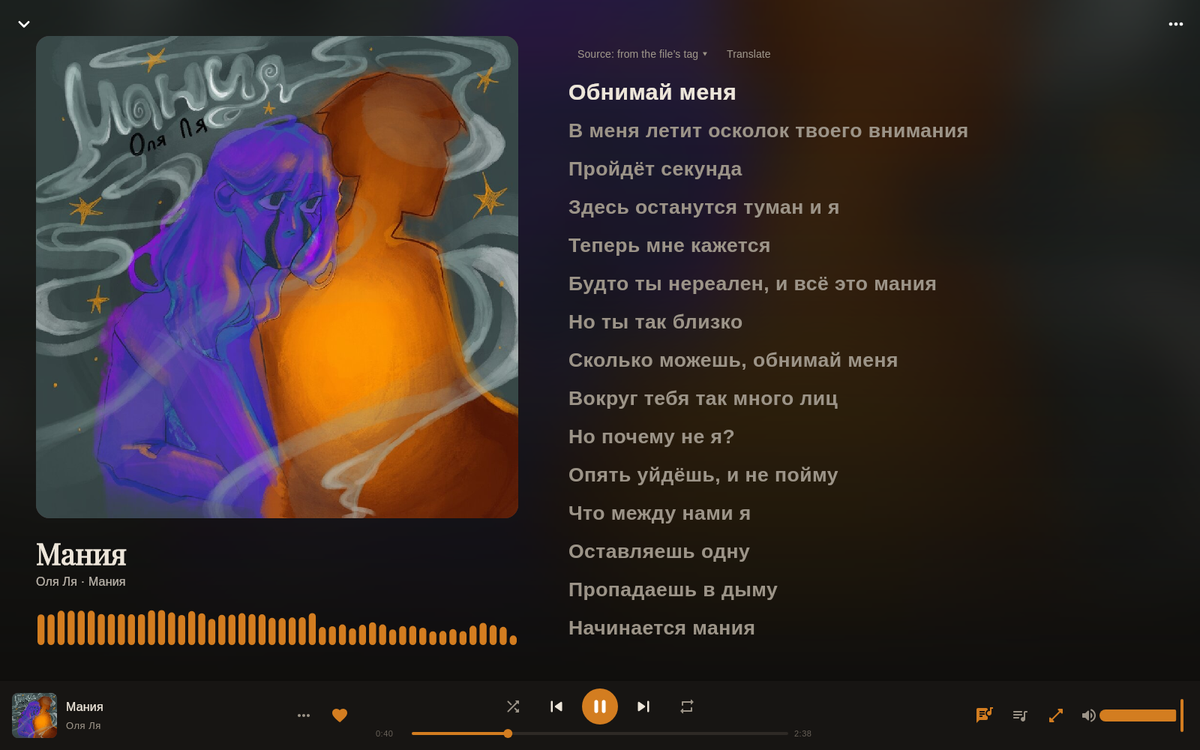
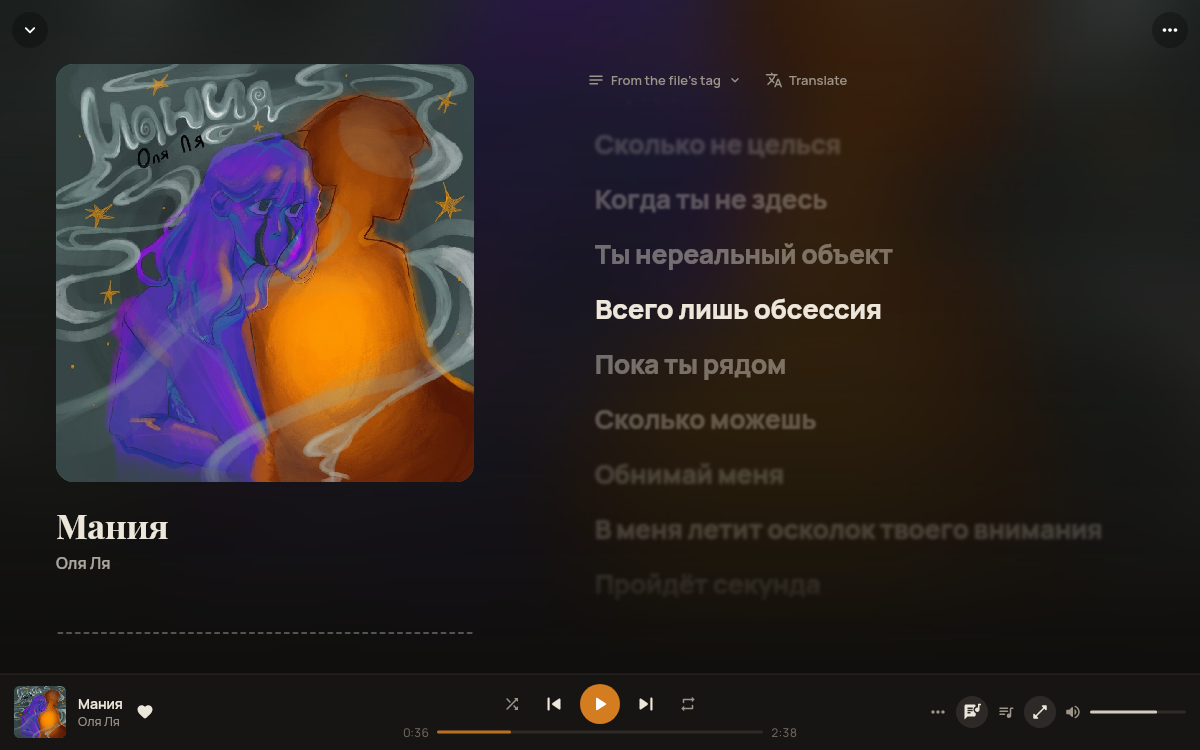
Version 0.5.0: the computer app's new look — Manrope throughout, the accent only where it means something, compact controls, a real track table, motion where things move, a mark of its own; lyrics without Yandex's and NetEase's stand-ins; Space and typing that don't set off the wrong thing; a folder

diff --git a/CHANGELOG.ru.md b/CHANGELOG.ru.md
@@ -2,6 +2,38 @@
 
 [English](CHANGELOG.md) | **Русский**
 
+## 0.5.0 — 2026-10-28
+
+### Новое
+- Компьютер: **новый облик.** Тот же Palimpsest — тёплая бумага, акцент из обложки, засечки в заголовках, — но
+  доделанный:
+  - весь текст набран Manrope (раньше всё, кроме заголовков, было системным шрифтом), размеры и скругления — по одной
+    шкале;
+  - оранжевым остаётся только то, что играет, кнопка «играть» и главное действие экрана;
+  - кнопки, поля, переключатели и ползунки — свои, компактные, вместо крупных «телефонных» из Material;
+  - **таблица треков с настоящими колонками**: сортировка по клику на заголовок, дата добавления, сердечко
+    ставится прямо в строке, у играющего трека — полоски в такт музыке;
+  - боковая панель сгруппирована, настройки внизу; плеер-бар ниже, сердечко рядом с названием;
+  - текст песни крупнее и контрастнее: текущая строка яркая, дальние слегка размыты;
+  - меню трека, все окна (теги, перемещение, удаление, версии, видео, «Моя волна»), настройки, горячие клавиши,
+    история, «Перевести в FLAC», поиск, исполнитель и сервисы — в том же стиле, без градиентов; Lane тоже.
+- Компьютер: **плавность.** Обложка перелетает из плеер-бара в большой плеер и обратно, и между раскладками, когда
+  включаешь и выключаешь текст; сердечко подпрыгивает; строки таблицы переезжают при сортировке и фильтре; вкладки
+  сменяются мягко; плитки альбомов приподнимаются под курсором.
+- Компьютер: **свой значок и картинки** — буква P поверх более бледной P, знак «Моей волны», маленькие рисунки на
+  пустых экранах.
+- Компьютер: **папка для видео настраивается** (Настройки → Загрузки и в самом окне «Видео из трека», где теперь видно,
+  куда сохранится), а когда видео готово — кнопка «Показать».
+
+### Исправлено
+- **Фраза Яндекса «Подключите подписку на Плюс…» и строки авторов из NetEase (作词/作曲) больше не показываются как
+  текст песни** — на телефоне и компьютере, и для уже сохранённых; тогда текст берётся из других источников.
+- Компьютер: **пробел ставит на паузу**, даже если перед этим кликнул по кнопке, — раньше он нажимал её снова (лайк,
+  текст). И **набор текста в поиске больше не срабатывает горячими клавишами**.
+- Компьютер: «Показать в папке» на Linux открывает файловый менеджер и выделяет файл — раньше папка могла открыться не
+  в нём (а в том, что система считает приложением для папок) или не открыться вовсе.
+- Компьютер: текст песни больше не может уронить приложение, когда впервые перематывается к текущей строке.
+
 ## 0.4.10 — 2026-10-27
 
 ### Новое

diff --git a/CHANGELOG.md b/CHANGELOG.md
@@ -2,6 +2,37 @@
 
 **English** | [Русский](CHANGELOG.ru.md)
 
+## 0.5.0 — 2026-10-28
+
+### New
+- Computer: **a new look.** Still Palimpsest — warm paper, the accent from the cover, a serif in the titles — but
+  finished:
+  - all the text is set in Manrope (everything but the titles used to be the system's font), sizes and corners on one
+    scale;
+  - only what's playing, the play button and a screen's main action stay orange;
+  - buttons, fields, switches and sliders of its own, compact, instead of Material's finger-sized ones;
+  - **a track table with real columns**: click a header to sort, the date added, a heart to click right in the row,
+    bars that move with the music by the playing track;
+  - the sidebar grouped with Settings at the bottom; a lower player bar with the heart by the title;
+  - lyrics larger and in more contrast: the sung line bright, the far ones slightly out of focus;
+  - the track menu, every window (tags, moving, deleting, versions, video, My Wave), Settings, keyboard shortcuts,
+    History, Upgrade to FLAC, Search, artist pages and Services in the same style, without gradients; Lane too.
+- Computer: **motion.** The cover flies from the player bar into the big player and back, and between its layouts when
+  the lyrics are switched on and off; the heart jumps when liked; table rows slide to their places on sort and filter;
+  tabs change softly; album tiles lift under the pointer.
+- Computer: **a mark and drawings of its own** — a P over a fainter P, a My Wave sign, small drawings on empty screens.
+- Computer: **the folder for videos can be chosen** (Settings → Downloads, and in the «Video from the track» window,
+  which now shows where it will be saved), and a finished video comes with a «Show» button.
+
+### Fixed
+- **Yandex's «subscribe to Plus» line and NetEase's credit lines (作词/作曲) are no longer shown as the song's words**
+  — on the phone and the computer, also for ones saved before; the lyrics then come from the other sources.
+- Computer: **Space pauses** even after a button was clicked — it used to press that button again (like, lyrics). And
+  **typing in Search no longer sets off keyboard shortcuts**.
+- Computer: «Show in folder» on Linux opens the file manager with the file selected — the folder used to open in
+  whatever the system took for the folder app, or not at all.
+- Computer: the lyrics can no longer crash the app when they first jump to the sung line.
+
 ## 0.4.10 — 2026-10-27
 
 ### New
